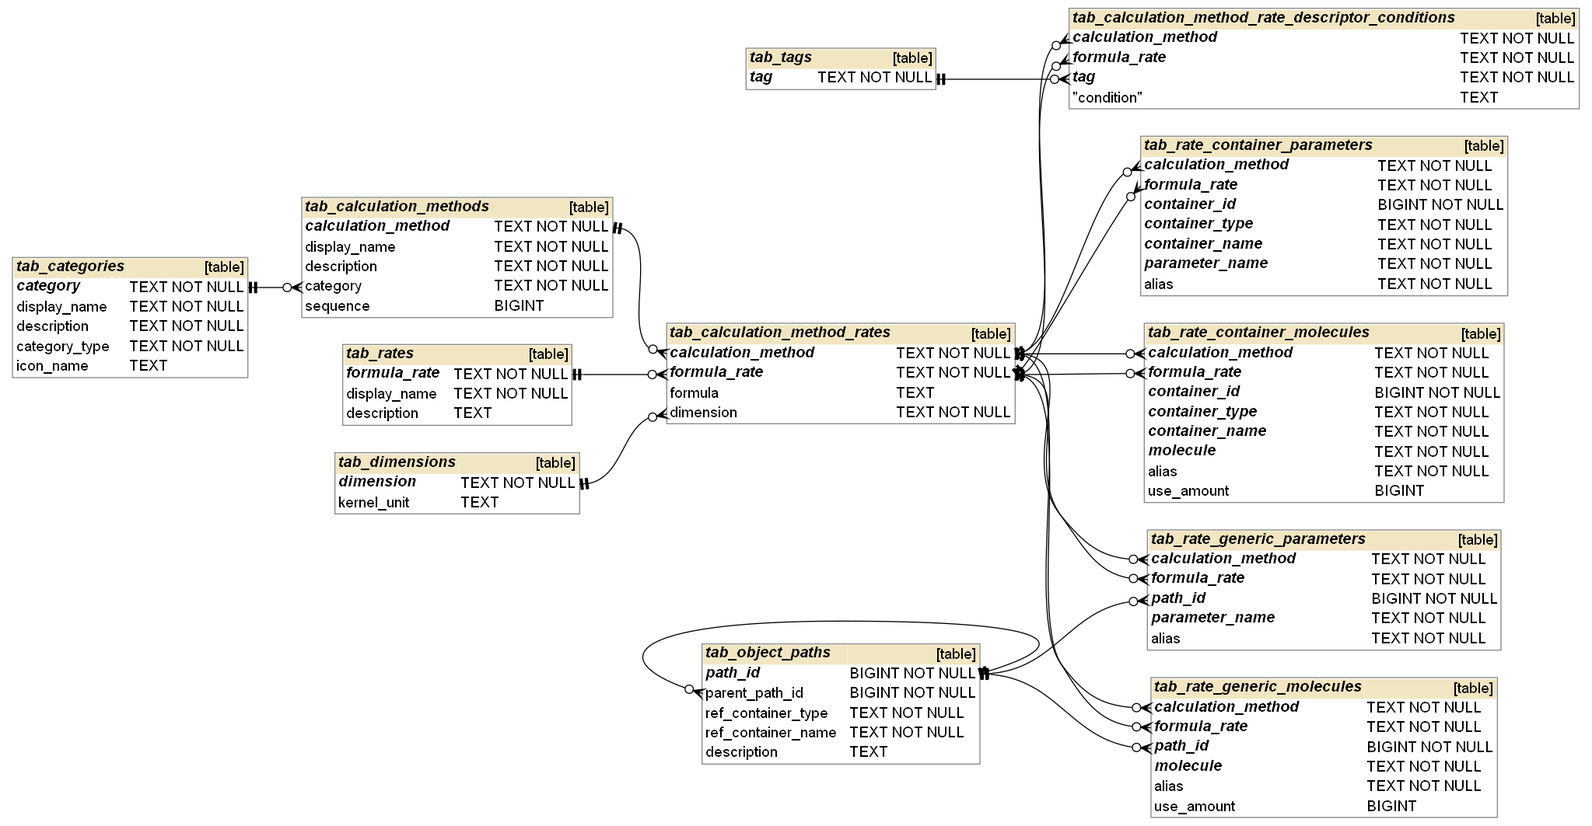
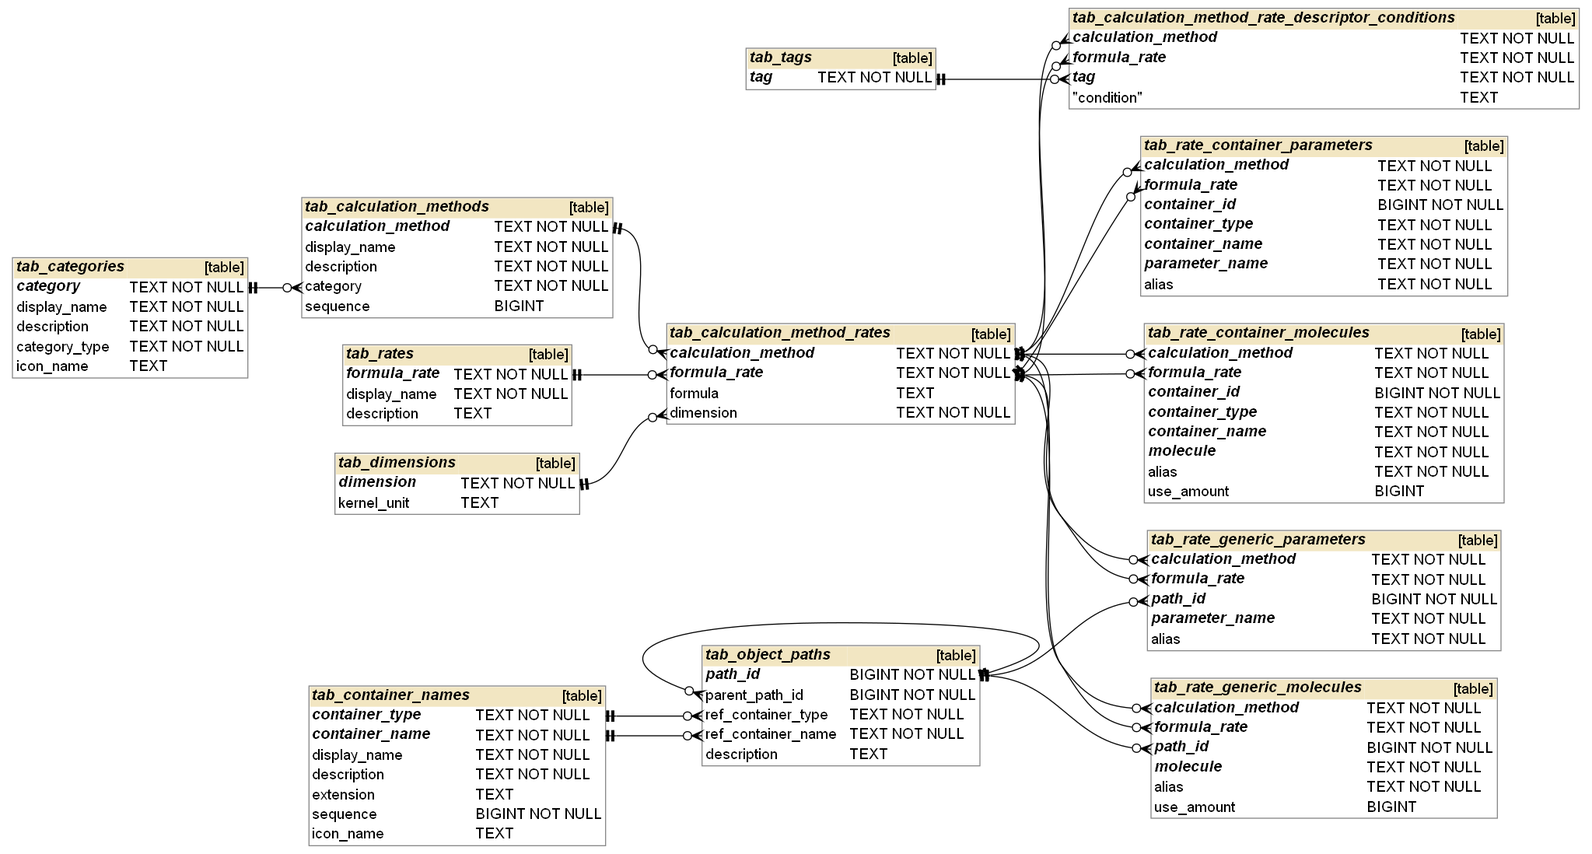
Documented "Calculation method parameters" and "Formulas (Calculation method - rates)"

Changed region(s): [[0.0, 0.0, 0.9849, 0.9934], [0.4617, 0.031, 0.6155, 0.1242]]

diff --git a/PKSim-DataBase/DB.md b/PKSim-DataBase/DB.md
@@ -1,4 +1,4 @@
-# General remarks
+# General remarks  <a id="section-general-remarks"></a>
 
 When a database value describes a numeric property of a quantity (e.g., parameter value, allowed value range, etc.), the value is always stored in the **base unit of the dimension of the quantity**. 
 
@@ -25,11 +25,13 @@ Some of the common properties used in many tables:
 
 Boolean values are always represented as **integers restricted to {0, 1}**.
 
+:grey_exclamation: Before renaming or removing basic entities (parameters, containers, observers): you should always check if the modified entity is explicitly used by its name in PK-Sim. If so, further code changes are required to reflect the database change! In some cases, the database objects that appear to be unused (when looking only at the database) are actually used in PK-Sim to create objects on the fly. 
+
 # Overview diagrams
 
 Each of the following subsections focuses on one aspect and shows only a **subset** of the database tables relevant to that topic. The last subsection shows the complete schema with all tables.
 
-## Containers
+## Containers  <a id="section-containers"></a>
 
 A *container* is a model entity that can have children. 
 In the context of PK-Sim, everything except parameters and observers is a container.
@@ -41,6 +43,8 @@ In the context of PK-Sim, everything except parameters and observers is a contai
 * **container_type** is used, for example, to map a container to the correct container class in PK-Sim.
 * **extension** is not used by PK-Sim and is only useful for some database update scripts.
 * **icon_name** defines which icon is used for a container. 
+
+There are some "special" containers defined in *tab_container_names* that are not used in the container hierarchy defined in *tab_containers*. These containers are only used for **referential integrity when defining some relative object paths** (see the [Formulas](#section-formulas) section for more details).
 
 **tab_containers** defines the container hierarchy and includes **all possible containers** which can appear in a model. When a model is created, some containers are filtered out based on the information in **tab_model_containers** and **tab_population_containers** (s. below)
 
@@ -91,7 +95,7 @@ In the context of PK-Sim, everything except parameters and observers is a contai
   * container is added to the model in any case
   * containers of this type usually should not be defined in *tab_population_containers* (TODO https://github.com/Yuri05/DB_Questions/discussions/1)
 
-## Processes
+## Processes  <a id="section-processes"></a>
 
 *Processes* are defined as containers with `container_type="PROCESS"` and must be inserted into **tab_container_names** first; once done they can be inserted into **tab_processes** and further process-specific tables.
 
@@ -311,7 +315,7 @@ One of the reasons for introducing calculation methods and parameter value versi
 
 * User can choose between healthy and one of the diseased states
 
-* If a disease state has been selected: additional input parameters may be required. In the database, these parameters are specified in a parentless container whose name is identical to the name of the selected disease state, e.g:
+* If a disease state has been selected: additional input parameters may be required. In the database, these parameters are specified in a parentless container whose name is identical to the name of the selected disease state and with `container_type=DISEASE_STATE`, e.g:
 
   | container_id | container_type | container_name | parameter_name | group_name     | building_block_type | is_input | …    |
   | ------------ | -------------- | -------------- | -------------- | -------------- | ------------------- | -------- | ---- |
@@ -343,7 +347,7 @@ One of the reasons for introducing calculation methods and parameter value versi
   * In other cases, the ontogeny factor is calculated by linear interpolation from two supporting points.
 
 
-## Container parameters
+## Container parameters <a id="section-container-parameters"></a>
 
 This section describes the definition of `{Container, Parameter}` combinations.
 Another (dynamic) way to define parameters is described in the section [Calculation method parameters](#calculation-method-parameters) below.
@@ -452,17 +456,250 @@ How does it work (all bullet points below apply for a combination
 * **condition** One of the values defined by the [`enum CriteriaCondition`](https://github.com/Open-Systems-Pharmacology/PK-Sim/blob/develop/src/PKSim.Infrastructure/ORM/FlatObjects/CriteriaCondition.cs) in PK-Sim.
 * **operator** Specifies how to combine single criteria conditions for the combination {`container_id, container_type, container_name, parameter_name`}. Must be the same for all entries in this combination. Possible values are 'And' and 'Or'. 
 
-## Calculation method parameters
+## Calculation method parameters <a id="section-calculation-method-parameters"></a>
+
+Apart from the container parameters described above, some parameters are created *dynamically* when the model uses a particular calculation method.
+
+Some calculation methods rely on a large number of **supporting parameters**, which are only used to create other parameters and are of no interest once the "main" parameters are created.
+
+To avoid adding tons of supporting parameters for all possible combinations of calculation methods, the concept of "Calculation method parameters" was introduced, which allows adding supporting parameters on demand.
+
+To enable calculation method parameters also in MoBi: with each new OSP release a **AllCalculationMethods.pkml** file is generated by PK-Sim and placed under **C:\ProgramData\Open Systems Pharmacology\MoBi\X.Y**. Here the complete supporting parameter information (parameter properties, location, formula) is stored. 
 
 ![](images/overview_calculation_method_parameters.png)
 
+**tab_calculation_method_parameter_rates** defines which parameters are added dynamically.
+Another task of this table is to dynamically assign formulas to the "main" parameters initially defined by a *black-box formula*. The latter is described in more detail in the section [Black Box Formulas](#black-box-formulas).
 
+* **parameter_id** unique id, only used internally in the database.
+* **parameter_name** name of the supporting parameter to add.
+* **group_name**, **can_be_varied**, **can_be_varied_in_population**, **read_only**, **visible** have the same meaning as for the container parameters.
+* {**calculation_method**, **rate**} define for which calculation method and with which formula the parameter will be added.
+
+**tab_calculation_method_parameter_descr_conditions** defines the containers in which a supporting parameter should be created. Containers are described by their tags; single criteria conditions for a parameter id are combined by `AND`.
 
 ## Formulas (Calculation method - rates) <a id="section-formulas"></a>
 
+This section describes the formulas defined in the PK-Sim database. This includes:
+
+* formulas defined by an analytical equation (*explicit formulas*) 
+* *sum formulas*
+* table formulas with offset
+* table formulas with X argument
+
+An **explicit formula** is defined by the equation $f(P_1, ... P_n; M_1, ..., M_k; C_1, ... C_j; TIME)$ where:
+
+* $f$ is an analytical function
+* $P_1, ... P_n$ ($n \geq 0$) are model parameters 
+* $M_1, ..., M_k$ ($k \geq 0$) are molecule amounts 
+* $C_1, ... C_j$ ($j \geq 0$) are molecule concentrations
+* $TIME$ is the current time (related to the begin of the simulation run)
+
+A **sum formula** is defined by the equation $f(P_1, ... P_n; M_1, ..., M_k; C_1, ... C_j; TIME; Q\_\#i)$ where:
+
+* $Q\_\#i$ is a *control variable* (parameter, molecule amount, etc.) defined by certain conditions
+* all other arguments have the same meaning as in an explicit formula
+
+A **table formula with offset** is defined by 2 quantities (see the [OSP documentation](https://docs.open-systems-pharmacology.org/working-with-mobi/mobi-documentation/model-building-components#working-with-table-formulas-with-offset) for details):
+
+* **table object** with the `Table_formula` (defined by the support points {$time_i;value_i$})
+* **offset object** with the `Offset_formula`.
+
+The X argument of the table object is always the (simulation) time, and the formula returns the value
+`Table_formula(Time - Offset_formula(Time;...))`.
+
+A **table formula with X argument** is a generalization of *table formula with offset* and is defined by 2 quantities
+
+* **table object** with the `Table_formula` (defined by the support points {$x_i;value_i$}).
+* **X argument object** with the `XArgument_formula`.
+
+The table's X argument is arbitrary, and the formula returns the value
+$Table\_formula(XArgument\_formula(...))$.
+
+S. the OSP Suite documentation: [Working with Formulas](https://docs.open-systems-pharmacology.org/working-with-mobi/mobi-documentation/model-building-components#working-with-formulas) and [Sum Formulas](https://docs.open-systems-pharmacology.org/working-with-mobi/mobi-documentation/model-building-components#sum-formulas) for more details on formulas.
+
 ![](images/overview_calculation_method_rates.png)
 
+**tab_rates** describes an abstract formula.
 
+**tab_calculation_methods** describes a calculation method. A calculation method describes how a **group of quantities** (parameters, molecule initial values, etc.) are defined by their formulas. A decision about which quantities should be described by the same calculation method is usually based on information about which formulas would change when the user switches from one (sub)model to another. For example, if the user chooses a different method for calculating the *Body Surface Area* (BSA) - only the BSA parameter itself is affected, and thus only this parameter is described by the corresponding calculation methods. If the user chooses another method for calculating the surface area between the plasma and the interstitial space - the *Surface Area (Plasma/Interstitial)* parameters in all tissues organs are affected: thus all these parameters are grouped in the same calculation method.
+
+* **category** calculation methods belonging to the same category are alternatives, which can be selected by user (s. also the section [Container Parameters](#section-container-parameters))
+
+**tab_categories** specifies the categories of calculation methods.
+
+* **category_type** describes for which building block or simulation all calculation methods of the given category are valid. For example, if the category type of a calculation method is "Individual" - the calculation method will be used when creating an individual. Valid values of the category type are defined by the [`enum CategoryType`](https://github.com/Open-Systems-Pharmacology/PK-Sim/blob/develop/src/PKSim.Core/Model/Category.cs).
+
+**tab_calculation_method_rates** defines the formula equation for the combination {`calculation_method, formula_rate`}.
+
+* **calculation_method** defines the calculation method. Some calculation methods have a special meaning and are described in more detail in the next subsections:
+  * `BlackBox_CalculationMethod`
+  * `DynamicSumFormulas`
+  * `DiseaseStates`
+* **formula_rate** defines the formula. 
+  * For some frequently used constant rates specific formulas were defined:
+    * `Zero_Rate`
+    * `One_Rate`
+    * `Thousand_Rate`
+    * `NaN_Rate`
+  * Some calculation methods have a special meaning and are described in more detail in the next subsections:
+    * `TableFormulaWithOffset_*`
+    * `TableFormulaWithXArgument_*`
+  
+* **formula** defines the equation for the combination {`calculation_method, formula_rate`}. Which operators, standard functions, etc. are allowed is described in the [OSP Suite documentation - Working with Formulas](https://docs.open-systems-pharmacology.org/working-with-mobi/mobi-documentation/model-building-components#working-with-formulas). 
+  * It is allowed to leave the **formula** field empty. Quantity with empty formula becomes mandatory user input in PK-Sim UI. This means that only **visible and editable quantities** are allowed to have an empty formula.
+  * Formula can be set to $\pm \infty$. Valid values for this are:
+    * `Inf` or `Infinity`
+    * `-Inf` or `-Infinity`
+
+  * It is important to write **efficient formulas**. Check the [WIKI **Writing efficient formulas**](https://github.com/Open-Systems-Pharmacology/OSPSuite.FuncParser/wiki/Writing-efficient-formulas) for details.
+  * Constant values in equations should be avoided. It is always better to define a new parameter, set it to the constant value, and then use that parameter in the equation. Exceptions are constants whose meaning is immediately clear (e.g. `1`, `0`, `ln(2)`, etc.). Because: 
+    * In the parameter definition, we can add description, value origin, etc. All of this information is missing when you use a constant directly in an equation.
+    * Unit information is lost and this can easily lead to errors (happens quite often in MoBi, when users add constants to their formulas, see e.g. [this discussion](https://github.com/Open-Systems-Pharmacology/Forum/issues/491)).
+  
+* **dimension** the dimension of the formula. Used e.g. by the dimension check in MoBi to make sure that the quantities using the given formula have the same dimension.
+
+**tab_rate_container_parameters** parameters referenced by the formula of the combination {`calculation_method, formula_rate`}. Parameters are given by the combination of {`container_id, container_type, container_name, parameter_name`}.
+
+* **alias** is the alias of the referenced parameter used in the calculation. The rules for defining aliases are
+  * Aliases of all quantities referenced in the formula must be unique and not empty.
+  * Alias cannot be a number.
+  * Alias must not contain any of the characters 
+    `+ - * \ / ^ . , < > = ! ( ) [ ] { } ' " ? : ¬ | & ;`
+  * Alias must not contain blanks.
+  * Alias cannot be one of the predefined *standard constants* (s. the [OSP Suite documentation - Working with Formulas](https://docs.open-systems-pharmacology.org/working-with-mobi/mobi-documentation/model-building-components#working-with-formulas)).
+  * Alias cannot be one of the predefined *standard functions* (s. the [OSP Suite documentation - Working with Formulas](https://docs.open-systems-pharmacology.org/working-with-mobi/mobi-documentation/model-building-components#working-with-formulas)).
+  * Alias cannot be one of the predefined *logical operators* (s. the [OSP Suite documentation - Working with Formulas](https://docs.open-systems-pharmacology.org/working-with-mobi/mobi-documentation/model-building-components#working-with-formulas)).
+
+**tab_rate_container_molecules** molecules referenced by the formula of the combination {`calculation_method, formula_rate`}. Molecules are given by the combination of {`container_id, container_type, container_name, molecule`}.
+
+* **alias** is the alias of the referenced parameter used in the calculation. Alias rules apply (s. above).
+* **use_amount** specifies whether the *amount* or *concentration* of the given molecule is used.
+
+**tab_rate_generic_parameters** parameters referenced by the formula of the combination {`calculation_method, formula_rate`}. Parameters are given by the combination of {`path_id,  parameter_name`}.
+
+* **path_id** refers to the (relative) object path stored in the table **tab_object_paths** (s. below).
+* **alias** is the alias of the referenced parameter used in the calculation. Alias rules apply (s. above).
+
+**tab_rate_generic_molecules** parameters referenced by the formula of the combination {`calculation_method, formula_rate`}. Parameters are given by the combination of {`path_id,  molecule`}.
+
+* **path_id** refers to the (relative) object path stored in the table **tab_object_paths** (s. below).
+* **alias** is the alias of the referenced molecule used in the calculation. Alias rules apply (s. above).
+* **use_amount** specifies whether the *amount* or *concentration* of the given molecule is used.
+
+There are some "special" containers defined in *tab_container_names* that are not used in the container hierarchy defined in *tab_containers*. These containers are only used for **referential integrity when defining some relative object paths**. (TODO s. [the issue](https://github.com/Open-Systems-Pharmacology/PK-Sim/issues/2692))
+
+<details><summary><b>Special containers</b></summary>
+
+| ref_container_name     | description                                                 |
+| ---------------------- | ----------------------------------------------------------- |
+| .                      | Me                                                          |
+| ..                     | Parent                                                      |
+| \<COMPLEX\>              | Dummy, will be replaced by complex name in PK-Sim           |
+| \<FormulationName\>      | \<FormulationName\>                                           |
+| \<MOLECULE\>             | Dummy, will be replaced by compound name in PK-Sim          |
+| \<PROCESS\>              | Template for Compound process in simulation                 |
+| \<PROTEIN\>              | Template for protein                                        |
+| \<REACTION\>             | Dummy, will be replaced by reaction name in PK-Sim          |
+| ALL_FLOATING_MOLECULES | Path entry referencing all floating molecules (Assignments) |
+| FIRST_NEIGHBOR         | Path entry for the first neighbor                           |
+| FcRn                   | FcRn                                                        |
+| FcRn_Complex           | FcRn_Complex                                                |
+| LigandEndo             | LigandEndo                                                  |
+| LigandEndo_Complex     | LigandEndo_Complex                                          |
+| NEIGHBORHOOD           | Path entry for the neighborhood                             |
+| SECOND_NEIGHBOR        | Path entry for the second neighbor                          |
+| SOURCE                 | Path entry for source amount                                |
+| TARGET                 | Path entry for target amount                                |
+| TRANSPORT              | Path entry for the transport                                |
+
+</details>
+
+**tab_object_paths** describes (relative) paths of quantities used in a formula (see the [OSP Suite documentation - Working with Formulas](https://docs.open-systems-pharmacology.org/working-with-mobi/mobi-documentation/model-building-components#working-with-formulas) for details). Each entry of an object path is stored separately, with its own id and the id of its parent path entry. Tables *tab_rate_generic_XXX* have the reference to the **bottom element of the object path** (see the example below).
+
+* **path_id** is the unique id of the path entry.
+* **parent_path_id** is the id of the parent path entry. If there is no parent path entry: the parent path id is set equal to the path id!
+* {**ref_container_type**, **ref_container_name**} name and type of the container which is referenced by the path entry.
+
+Example: 
+
+*tab_object_paths* contains the following path entries:
+
+| path_id | parent_path_id | ref_container_type | ref_container_name  |
+| ------- | -------------- | ------------------ | ------------------- |
+| 260     | 259            | GENERAL            | MOLECULE            |
+| 259     | 2078           | NEIGHBORHOOD       | Brain_pls_Brain_int |
+| 2078    | 2078           | GENERAL            | Neighborhoods       |
+
+These entries represent the path `Neighborhoods|Brain_pls_Brain_int|MOLECULE`.
+
+In *tab_rates_generic_parameters* the path is referenced like this:
+
+| calculation_method                                   | formula_rate                  | path_id | parameter_name                              | alias     |
+| ---------------------------------------------------- | ----------------------------- | ------- | ------------------------------------------- | --------- |
+| Interstitial partition coefficient method  - Schmitt | PARAM_K_water_int_brn_Schmitt | **260** | Partition coefficient (interstitial/plasma) | K_int_pls |
+
+With this, the full path to the referenced parameter is: 
+`Neighborhoods|Brain_pls_Brain_int|MOLECULE|Partition coefficient (interstitial/plasma)`
+
+### Sum formulas  <a id="sum-formulas">
+
+See the [OSP Suite documentation - Sum Formulas](https://docs.open-systems-pharmacology.org/working-with-mobi/mobi-documentation/model-building-components#sum-formulas) for more details.
+
+Sum formulas in the PK-Sim database must have the calculation method **DynamicSumFormulas**.
+
+Compared to the full flexibility of the sum formulas provided in MoBi, there are some restrictions:
+
+* *Control variable* (`Q` in the screenshot below) can only be defined **with 1 letter**.
+* Quantity references **relative to the summed object** (the highlighted part of the definition below) are not possible.
+* The operator for combining the conditions of each criterion is always `And'.
+
+![](images/Screen03_SumFormula.png)
+
+**tab_calculation_method_rate_descriptor_conditions** defines the criteria of the quantities to be summed up for the combination {`calculation_method, rate`}.
+
+* **condition** one of the values defined by the [`enum CriteriaCondition`](https://github.com/Open-Systems-Pharmacology/PK-Sim/blob/develop/src/PKSim.Infrastructure/ORM/FlatObjects/CriteriaCondition.cs) in PK-Sim.
+* **tag** the tag of the single condition.
+
+### "Black box" formulas <a id="black-box-formulas">
+
+Some molecule-dependent parameters defined within the spatial structure have a formula that depends on the calculation methods of the specific molecule. Examples of such parameters are partition coefficients, cellular permeabilities, etc.
+
+Within the spatial structure, these parameters are defined by a dummy formula - *black-box formula* - which is replaced by a concrete formula for each molecule.
+
+All black box formulas are combined within the calculation method `BlackBox_CalculationMethod'.
+
+The concrete (calculation method dependent) formulas are then defined in the table **tab_calculation_method_parameter_rates** (and exported to **AllCalculationMethods.pkml** for MoBi) - see the section [Calculation method parameters](#section-calculation-method-parameters). 
+
+Example of how black box parameters are displayed in MoBi:
+
+![](images/Screen04_BlackBoxFormula.png)
+
+### Disease state parameters
+
+Parameters specific to disease states are grouped under the `DiseaseStates` calculation method.
+
+### Table formulas with offset
+
+If a formula_rate starts with the prefix **TableFormulaWithOffset_** (e.g. `TableFormulaWithOffset_FractionDose`) - PK-Sim will create a table formula with offset.
+
+PK-Sim then expects that **exactly 2 referenced quantities are defined for the formula**: one quantity with the alias `Table` and another quantity with the alias `Offset`. Example:
+
+| calculation_method   | formula_rate                        | path_id | parameter_name  | alias      |
+| -------------------- | ----------------------------------- | ------- | --------------- | ---------- |
+| ApplicationParameter | TableFormulaWithOffset_FractionDose | 139     | Start time      | **Offset** |
+| ApplicationParameter | TableFormulaWithOffset_FractionDose | 253     | Fraction (dose) | **Table**  |
+
+### Table formulas with X argument
+
+If a formula_rate starts with the prefix **TableFormulaWithXArgument_** (e.g. `TableFormulaWithXArgument_Solubility`) - PK-Sim will create a table formula with X Argument.
+
+PK-Sim then expects, that **exactly 2 referenced quantities are defined for the formula**: one quantity with the alias `Table` and another quantity with the alias `XArg`. Example:
+
+| calculation_method | formula_rate                         | path_id | parameter_name   | alias     |
+| ------------------ | ------------------------------------ | ------- | ---------------- | --------- |
+| Lumen_PKSim        | TableFormulaWithXArgument_Solubility | 140     | pH               | **XArg**  |
+| Lumen_PKSim        | TableFormulaWithXArgument_Solubility | 240     | Solubility table | **Table** |
 
 ## Calculation methods and parameter value versions <a id="section-cm-and-pvv"></a>
 
@@ -470,53 +707,53 @@ How does it work (all bullet points below apply for a combination
 
 
 
-## Applications and formulations
+## Applications and formulations <a id="section-applications-formulations"></a>
 
 ![](images/overview_applications_formulations.png)
 
 
 
-## Entities defined by formulas
+## Entities defined by formulas <a id="section-formula-entities"></a>
 
 ![](images/overview_formula_objects.png)
 
 
-
-## Events
+## Events <a id="section-events"></a>
 
 ![](images/overview_events.png)
 
 
-
-## Observers
+## Observers <a id="section-observers"></a>
 
 ![](images/overview_observers.png)
 
-## Proteins
+
+## Proteins <a id="section-proteins"></a>
 
 ![](images/overview_proteins.png)
 
-## Models
+
+## Models <a id="section-models"></a>
 
 ![](images/overview_models.png)
 
 
-
-## Tags
+## Tags <a id="section-tags"></a>
 
 ![](images/overview_tags.png)
 
 
-
-## Value origins
+## Value origins <a id="section-value-origins"></a>
 
 ![](images/overview_value_origins.png)
 
-## Representation Info
+
+## Representation Info <a id="section-representation-info"></a>
 
 ![](images/overview_representation_info.png)
 
-## Enumerations
+
+## Enumerations <a id="section-enumerations"></a>
 
 ![](images/overview_enums_1.png)
 
@@ -530,6 +767,7 @@ How does it work (all bullet points below apply for a combination
 
 ![](images/overview_enums_6.png)
 
-# Full schema
+
+# Full schema <a id="section-full-schema"></a>
 
 ![](images/full_db_tables.png)
